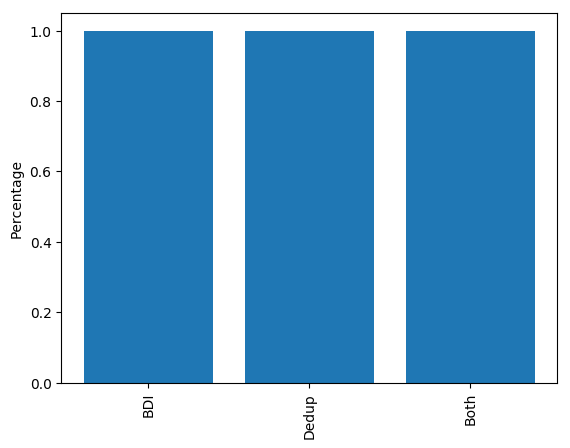
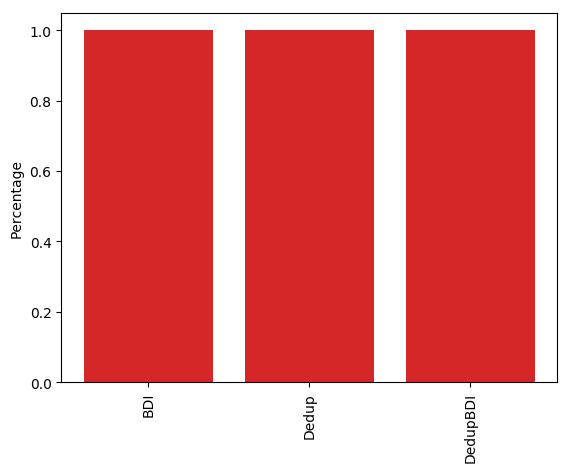
Added Results. Missing Power.

diff --git a/results.tex b/results.tex
@@ -3,3 +3,250 @@
 
 \chapter{Results}
 \label{ch:Results}
+
+In this chapter we show results for the BDI, Dedup, and DedupBDI caches along with the roofline model we established for DedeupBDI. We show how those four cache designs affect compression, MPKI, and speedup.
+
+\section{Methodology}
+\label{sec:Methodology}
+\begin{table}[]
+    \centering
+    \begin{tabular}{ll}
+    Component & Configuration                                                                                                 \\ \hline
+    CPU       & x86\_64, 2.6GHz, 4-wide OoO, 80 entry ROB.                                                                    \\
+    L1I       & 32KB, 4 way, 3 cycle access lat, 64B lines, LRU.                                                              \\
+    L1D       & 32KB, 8 way, 4 cycle access lat, 64B lines, LRU.                                                              \\
+    L2        & Private, 256KB, 8 way, 11 cycle access lat, 64B lines, LRU.                                                   \\
+    L3        & Shared, 0.5MB-8MB (or similar tag array size if compressed), 16 way, 39 cycle access lat, 64B lines, 8 banks. \\
+    Mem       & DDR3-1066, 1GB.                                                                                              
+    \end{tabular}
+    \caption{The simulated system}
+    \label{tab:simsys}
+\end{table}
+\begin{table}[]
+    \centering
+    \begin{tabular}{|l|l|l|l|}
+    \hline
+    Compression                   & Cache & Data Entries & Tag Entries \\ \hline
+    \multirow{5}{*}{Conventional} & 0.5MB & 8192         & 8192        \\ \cline{2-4} 
+                                  & 1MB   & 16384        & 16384       \\ \cline{2-4} 
+                                  & 2MB   & 32768        & 32768       \\ \cline{2-4} 
+                                  & 4MB   & 65536        & 65536       \\ \cline{2-4} 
+                                  & 8MB   & 131072       & 131072      \\ \hline
+    \multirow{5}{*}{COMP-2}       & 0.5MB & 4096         & 8192        \\ \cline{2-4} 
+                                  & 1MB   & 8192         & 16384       \\ \cline{2-4} 
+                                  & 2MB   & 16384        & 32768       \\ \cline{2-4} 
+                                  & 4MB   & 32768        & 65536       \\ \cline{2-4} 
+                                  & 8MB   & 65536        & 131072      \\ \hline
+    \multirow{5}{*}{COMP-4}       & 0.5MB & 2048         & 8192        \\ \cline{2-4} 
+                                  & 1MB   & 4096         & 16384       \\ \cline{2-4} 
+                                  & 2MB   & 8192         & 32768       \\ \cline{2-4} 
+                                  & 4MB   & 16384        & 65536       \\ \cline{2-4} 
+                                  & 8MB   & 32768        & 131072      \\ \hline
+    \end{tabular}
+    \caption{All cache configurations.}
+    \label{tab:simcache}
+\end{table}
+We used the zsim\cite{zsim} simulator to design and implement the four target caches: BDI, Dedup, DedupBDI, and Ideal DedupBDI along with a baseline conventional (uncompressed) cache. We used an out-of-order core timing model based on a medium-size x86 core, with detailed timing for all critical-path and off-critical-path events. We simulated a system with a 3 level cache hierarchy, with private L1 and L2 caches and a shared L3 cache. The simulated system is listed in Table \ref{tab:simsys}.\par 
+We simulated different conventional L3 cache sizes ranging from 0.5MB to 8MB. We also simulated the four compressed caches at the same tag array sizes, but with data arrays half and one quarter of the size. For example, a 4MB-2 BDI cache has the same number of tags as a conventional 4MB cache, but its tag to data ratio is 2 so its data array size is half of its conventional counterpart. The LLC cache configurations are shown in \ref{tab:simcache}. The workloads used are all the benchmarks from the AxBench\cite{axbench} benchmark suite, the Parsec\cite{parsec} benchmark suite with simmedium inputs, and the Spec\cite{spec} benchmark suite with train inputs (mid-size inputs). All the benchmarks were simulated until end or 3B instructions.
+
+\section{Case Study}
+\label{sec:case_study}
+In this section we describe the four benchmarks we picked in \ref{sec:Motivation}. The benchmarks have different cache patterns and behaviors. During static analysis canneal was only compressible by BDI, dedup was compressible using deduplication, jmeint was uncompressed while libquantum was compressible by both. We analyze how these benchmarks behave when simulated in a real computing system with compressed caches.\par
+\begin{figure}
+    \begin{subfigure}{0.5\textwidth}
+        \includegraphics[width=\textwidth]{canneal-compratio.png}
+        \caption{canneal}
+    \end{subfigure}
+    \begin{subfigure}{0.5\textwidth}
+        \includegraphics[width=\textwidth]{lbm-compratio.png}
+        \caption{lbm}
+    \end{subfigure}
+    \begin{subfigure}{0.5\textwidth}
+        \includegraphics[width=\textwidth]{jmeint-compratio.png}
+        \caption{jmeint}
+    \end{subfigure}
+    \begin{subfigure}{0.5\textwidth}
+        \includegraphics[width=\textwidth]{libquantum-compratio.png}
+        \caption{libquantum}
+    \end{subfigure}
+    \caption[Case Study: Compression]{Showing four benchmarks and their compression ratio using different compressed caches.}
+    \label{fig:case_compratio}
+\end{figure}
+Figure \ref{fig:case_compratio} shows the compression ratio of the four benchmarks. Compression ratio is calculated as the the ratio between valid tags and valid data entries. The blue columns are caches with tag entries double the data entries, while the orange ones have tags four times the data entries. As expected, canneal shows some compression with BDI but nothing with Dedup, lbm shows compression using Dedup but not using BDI, jmeint shows no compression using any of the caches, while libquantum shows compression using all of them. The DedupBDI cache combines the best of both worlds and either outperforms or at least does as good as BDI or Dedup.\par
+Figures \ref{fig:case_mpki} and \ref{fig:case_speedup} show the MPKI and Speedup for the four benchmarks under all cache configurations. Apart from the incompressible jmeint, all the benchmarks show huge speedups (up to 70\% in case of libquantum). DedupBDI is the best performing cache in canneal, lbm and libquantum. But it's slightly worse (0.01\% slowdown) than a conventional cache in jmeint.
+\begin{figure}
+    \begin{subfigure}{0.5\textwidth}
+        \includegraphics[width=\textwidth]{canneal-mpki.png}
+        \caption{canneal}
+    \end{subfigure}
+    \begin{subfigure}{0.5\textwidth}
+        \includegraphics[width=\textwidth]{lbm-mpki.png}
+        \caption{lbm}
+    \end{subfigure}
+    \begin{subfigure}{0.5\textwidth}
+        \includegraphics[width=\textwidth]{jmeint-mpki.png}
+        \caption{jmeint}
+    \end{subfigure}
+    \begin{subfigure}{0.5\textwidth}
+        \includegraphics[width=\textwidth]{libquantum-mpki.png}
+        \caption{libquantum}
+    \end{subfigure}
+    \caption[Case Study: MPKI]{Showing four benchmarks and their MPKI using different compressed caches.}
+    \label{fig:case_mpki}
+\end{figure}
+\begin{figure}
+    \begin{subfigure}{0.5\textwidth}
+        \includegraphics[width=\textwidth]{canneal-speedup.png}
+        \caption{canneal}
+    \end{subfigure}
+    \begin{subfigure}{0.5\textwidth}
+        \includegraphics[width=\textwidth]{lbm-speedup.png}
+        \caption{lbm}
+    \end{subfigure}
+    \begin{subfigure}{0.5\textwidth}
+        \includegraphics[width=\textwidth]{jmeint-speedup.png}
+        \caption{jmeint}
+    \end{subfigure}
+    \begin{subfigure}{0.5\textwidth}
+        \includegraphics[width=\textwidth]{libquantum-speedup.png}
+        \caption{libquantum}
+    \end{subfigure}
+    \caption[Case Study: Speedup]{Showing four benchmarks and their speedup using different compressed caches.}
+    \label{fig:case_speedup}
+\end{figure}
+
+\section{Compression}
+\label{sec:Compression}
+Figure \ref{fig:all_compratio} shows the compression ratio for all the benchmarks when simulated with a compressed 4MB LLC with tags four times the data lines. It's shown that DedupBDI performs either better than BDI and Dedup, or at least similar to the dominant one. There're no cases in which DedupBDI compressed worse than BDI or Dedup.\par
+It can also be seen that the difference between DedupBDI and the roofline model (IDedupBDI) is minimal in most cases. Only in bwaves and fft benchmarks the roofline perform a lot better than the real world implementation.\par
+However, the compression ratio does not tell the full story. If a cache contains 512 valid tags out of 1024, and 256 valid data lines out of 256 then it has a compression ratio of 0.5 but it's not being fully utilized. Normal conventional caches usually have near 100\% utilization unless the working data set is very small to entirely fit inside a cache. Figure \ref{fig:all_util} shows the tag and data array utilization for all benchmarks. Most of the benchmarks can be divided into two categories:
+\begin{itemize}
+    \item \textbf{tag limited:} Those are benchmarks that have very high tag utilization, but lower than 100\% data utilization. GemsFDTD is an obvious example. Those benchmarks are highly compressible and thus are bound by the size of the tag array. Evictions in such benchmarks are mainly caused by the tag array replacement policy.
+    \item \textbf{data limited:} Those benchmarks reach 100\% utilization of their data arrays before the tag array is full. This is because they have a lower degree of compressibility. Evictions in those benchmarks are prominently caused by the data array replacement policy.
+\end{itemize}
+\begin{figure}
+    \includegraphics[width=\textwidth]{all-compratio.png}
+    \caption[All benchmarks: Compression]{Showing compression ratio for all benchmarks using all types of compressed 4MB caches with tags four times data.}
+    \label{fig:all_compratio}
+\end{figure}
+\begin{figure}
+    \begin{subfigure}{\textwidth}
+        \includegraphics[width=\textwidth]{all-tagutil.png}
+    \end{subfigure}
+    \begin{subfigure}{\textwidth}
+        \includegraphics[width=\textwidth]{all-datautil.png}
+    \end{subfigure}
+    \caption[All benchmarks: Utilization]{Showing tag and data utilization ratio for all benchmarks using all types of compressed 4MB caches with tags four times data.}
+    \label{fig:all_util}
+\end{figure}
+Results generated from other cache sizes (ranging from 0.5MB to 8MB) are very similar, we have chosen the 4MB-4 as a representative.
+
+\section{Performance}
+\label{sec:Performance}
+\begin{table}[]
+    \centering
+    \small
+    \setlength\tabcolsep{2pt}
+    \begin{tabular}{|l|l|l|l|l|l|l|l|}
+        \hline
+        \textbf{Benchmark} & \textbf{Cache Sensitive}                                    & \textbf{Benchmark} & \textbf{Cache Sensitive}                                      & \textbf{Benchmark} & \textbf{Cache Sensitive}                                     & \textbf{Benchmark} & \textbf{Cache Sensitive}                                      \\ \hline
+        fft                & \begin{tabular}[c]{@{}l@{}}Big Sizes \\ (Semi)\end{tabular} & fluidanimate       & None                                                          & gromacs            & \begin{tabular}[c]{@{}l@{}}Small Sizes \\ (Semi)\end{tabular} & wrf                & All                                                           \\ \hline
+        inversek2j         & None                                                        & freqmine           & None                                                          & cactusADM          & \begin{tabular}[c]{@{}l@{}}All \\ (Semi)\end{tabular}         & bzip2              & All                                                           \\ \hline
+        jmeint             & None                                                        & raytrace           & None                                                          & leslie3d           & \begin{tabular}[c]{@{}l@{}}Big Sizes \\ (Semi)\end{tabular}   & gcc                & All                                                           \\ \hline
+        jpeg               & None                                                        & streamcluster      & None                                                          & namd               & None                                                          & mcf                &                                                               \\ \hline
+        kmeans             & None                                                        & swaptions          & None                                                          & dealII             & Small Sizes                                                   & gobmk              & \begin{tabular}[c]{@{}l@{}}Small Sizes \\ (Semi)\end{tabular} \\ \hline
+        sobel              & None                                                        & vips               & \begin{tabular}[c]{@{}l@{}}Small Sizes \\ (Semi)\end{tabular} & soplex             & \begin{tabular}[c]{@{}l@{}}All \\ (Semi)\end{tabular}         & hmmer              & \begin{tabular}[c]{@{}l@{}}Small Sizes \\ (Semi)\end{tabular} \\ \hline
+        blackscholes       & None                                                        & x264               & None                                                          & calculix           & Small Sizes                                                   & sjeng              & None                                                          \\ \hline
+        bodytrack          & None                                                        & bwaves             & None                                                          & GemsFDTD           &                                                               & libquantum         & Mid Sizes                                                     \\ \hline
+        canneal            & \begin{tabular}[c]{@{}l@{}}All \\ (Semi)\end{tabular}       & gamess             & \begin{tabular}[c]{@{}l@{}}Small Sizes \\ (Semi)\end{tabular} & tonto              & \begin{tabular}[c]{@{}l@{}}Small Sizes \\ (Semi)\end{tabular} & h264ref            &                                                               \\ \hline
+        dedup              & None                                                        & milc               &                                                               & lbm                & None                                                          & omnetpp            & Small Sizes                                                   \\ \hline
+        facesim            & None                                                        & zeusmp             & None                                                          & sphinx3            & Big Sizes                                                     & astar              & All                                                           \\ \hline
+        ferret             & \begin{tabular}[c]{@{}l@{}}All\\ (Semi)\end{tabular}        &                    &                                                               &                    &                                                               &                    &                                                               \\ \hline
+        \end{tabular}
+    \caption{All benchmarks and their cache behavior}
+    \label{tab:cachesense}
+\end{table}
+\begin{figure}
+    \begin{subfigure}{\textwidth}
+        \includegraphics[width=\textwidth]{all05-mpki.png}
+    \end{subfigure}
+    \begin{subfigure}{\textwidth}
+        \includegraphics[width=\textwidth]{all4-mpki.png}
+    \end{subfigure}
+    \caption[All benchmarks: MPKI]{Showing LLC MPKI for conventional and all types of compressed 0.5 and 4MB caches with tags four times data.}
+    \label{fig:all_mpki}
+\end{figure}
+\begin{figure}
+    \begin{subfigure}{\textwidth}
+        \includegraphics[width=\textwidth]{all05-speedup.png}
+    \end{subfigure}
+    \begin{subfigure}{\textwidth}
+        \includegraphics[width=\textwidth]{all4-speedup.png}
+    \end{subfigure}
+    \caption[All benchmarks: Speedup]{Showing Speedup for all types of compressed 0.5 and 4MB caches with tags four times data against conventional same size caches.}
+    \label{fig:all_speedup}
+\end{figure}
+Figure \ref{fig:all_mpki} shows the MPKI for all the benchmarks when simulated with conventional and compressed 0.5MB and 4MB LLC caches with tags four times the data lines. It shows that compressed caches reduce MPKIs in LLC. DedupBDI is either the same as Dedup or BDI or is outperforming them.\par
+However, the decrease of MPKI doesn't always necessitate speedup. The benchmark access patterns and cache sensitivity also play a role. Table \ref{tab:cachesense} shows the behavior of all benchmarks over a range fo cache sizes. Every benchmark is classified as cache sensitive, cache insensitive, or cache sensitive at a specific cache size range.
+Figure \ref{fig:all_speedup} shows the speedup for all the benchmarks when simulated with a compressed 0.5MB and 4MB LLC caches with tags four times the data lines, respectively. We have chosen those two sizes because some benchmarks are only cache sensitive with lower cache sizes while others are only cache sensitive at higher cache sizes.\par
+For the cache insensitive benchmarks, the DedupBDI cache performs as fast as the conventional caches. It does not provide anymore speedup. But it allows the data to be compressed, providing area and power savings. For the cache sensitive benchmarks, DedupBDI outperforms the conventional, Dedup, and DedupBDI caches altogether.
+
+\section{Overhead Analysis}
+\label{sec:Overhead}
+\begin{table}[]
+    \centering
+    \begin{tabular}{lllll}
+               & Conv   & BDI    & Dedup  & DedupBDI \\ \hline
+    Tags       &        &        &        &          \\
+    \# Entries & 65536  & 65536  & 65536  & 65536    \\
+    Entry Size & 46b    & 46b    & 46b    & 46b      \\
+    Overhead   & 8b     & 15b    & 46b    & 49b      \\
+    Total Size & 432KB  & 488KB  & 736KB  & 760KB    \\ \hline
+    Data       &        &        &        &          \\
+    \# Entries & 65536  & 16384  & 16384  & 16384    \\
+    Entry Size & 64B    & 64B    & 64B    & 64B      \\
+    Overhead   &        &        & 16b    & 16B      \\
+    FreeList   &        &        & 28KB   & 10KB     \\
+    Total Size & 4MB    & 1MB    & 1.06MB & 1.26MB   \\ \hline
+    Hash       &        &        &        &          \\
+    \# Entries &        &        & 64     & 64       \\
+    Entry Size &        &        & 10b    & 10b      \\
+    Overhead   &        &        & 14b    & 21b      \\
+    Total Size &        &        & 192B   & 248B     \\ \hline
+    Total Size & 4.42MB & 1.48MB & 1.78MB & 2MB  
+    \end{tabular}
+    \caption{4MB cache size and overhead in all configurations.}
+    \label{tab:overhead}
+\end{table}
+Table \ref{tab:overhead} shows the overheads in the cache designs we have, assuming an associativity of 16, cache size of 4MB and LRU replacement policy. The overhead in all caches comes from three (four) different sources:
+\begin{itemize}
+    \item \textbf{Tag Overhead:}
+    \begin{itemize}
+        \item \textbf{conventional:} In conventional caches, assuming LRU replacement policy, the tag overhead per entry consists of one bit for Valid, one for Dirty, and log2(associativity) bits for the LRU replacement. 
+        \item \textbf{BDI:} In BDI there's an extra overhead of 4 bits for compression encoding and log2(associativity*\#Segments) bits for segment pointers. Along with the normal overhead from a conventional cache.
+        \item \textbf{Dedup:} On top of the conventional cache overhead, Dedup adds two pointers per tag entry for the next/previous tag to build a linked list, each one of those is log2(\#Tags/associativity) bits. It also adds pointers to the data line associated with it. Since Dedup data arrays are direct mapped the data pointer size is log2(\#Data).
+        \item \textbf{DedupBDI:} DedupBDI adds the same overhead as the BDI cache. It also adds the same linked list pointers from the Dedup cache, but it's data pointer size is different from the Dedup cache. Because the data array in DedupBDI maintains its associativity, the data pointer size is log2(\#Data/associativity).
+    \end{itemize}
+    \item \textbf{Data Overhead:}
+    \begin{itemize}
+        \item \textbf{conventional:} A conventional cache has no overheads in its data array.
+        \item \textbf{BDI:} Similar to a conventional cache, A BDI cache does not have any metadata in its data array and thus does not have any overhead.
+        \item \textbf{Dedup:} The data lines in a Dedup cache requires a pointer to the tag, which is enough to pint to the tag set so it has a size of log2(\#Tags/associativity). It also requires each data line to have a deduplication counter, which we described in \ref{ch:BackgroundMotiv} to be 2 bits.
+        \item \textbf{DedupBDI:} The DedupBDI data array has the same overhead as its Dedup counterpart. Except the overhead is per segment instead of being per line. that means for each data line we have 8 Dedup data overheads.
+    \end{itemize}
+    \item \textbf{Extra Data Overhead:}
+    \begin{itemize}
+        \item \textbf{Dedup:} The Dedup cache maintains a free list of its free data lines. The free list is essentially a FIFO with the same number of entries as data lines, and with a width that's enough to hold a pointer to the corresponding data line (i.e. log2(\#Data)).
+        \item \textbf{DedupBDI:} The DedupBDI cache maintains 8 different free lists. Each of them is a FIFO with the same number of sets as data sets (i.e. Data lines/associativity), with a width that's enough to hold a pointer to the set (i.e. log2(\#Data/associativity)).
+    \end{itemize}
+    \item \textbf{Hash Array:} The Dedup and DedupBDI have the same hash array design. The hash array saves part of the hash as a tag while the other part is used as an index. The hash array then has the size of \#Hash*(HashSize-log2(\#Hash/associativity)). The Dedup and DedupBDI hash arrays then have some extra overhead:
+    \begin{itemize}
+        \item \textbf{Dedup:} each hash entry has a data pointer of size log2(\#Data)
+        \item \textbf{DedupBDI:} each hash entry has a data pointer of size log2(\#Data/associativity) and segment pointer of size log2(associativity*\#Segments) bits.
+    \end{itemize}
+\end{itemize}
+It's obvious that DedupBDI has the highest amount of overhead. But it also gains the most savings and speedups.
+
+\section{Area and Power}
+\label{sec:areapower}
+We used cacti6\cite{cacti} to get power and area estimations for all the cache types and sizes we simulated. The results are shown in \ref{}

diff --git a/intro.tex b/intro.tex
@@ -4,8 +4,28 @@
 \chapter{Introduction}
 \label{ch:Introduction}
 
-Modern computer systems suffer from a huge speed gap between microprocessors and DRAM main memories. The traditional approach to tolerate the huge DRAM latency is to use huge multi-megabyte caches. However, caches often present us with a design tradeoff. While increasing cache size can lead to lower miss rates and thus better performance, it also requires higher silicon area, higher access latencies and consumes more power\cite{skadron1999branch}. In modern microprocessors caches often occupy a significant portion of the die area, and contribute to significant power consumption\cite{skylake,power9}.\par
-A different approach that has gained more popularity recently is to use compression ro better utilize the existing cache space instead of increasing cache sizes. Previous proposals discussed and exploited data similarities and redundancies on different granularities. Some studies have found that applications can exhibit a lot of zero cache lines, some proposals were completely focused on zero compression\cite{zca} while others at least treated zero lines as a special case in their compression schemes\cite{fpc, hycomp, dedup}. Other proposals took advantage of the existence of data similarities of different granularities across caches. Such approaches used dictionaries for intra-line granularity\cite{cpack, dish} or used deduplications\cite{dedup} to take advantage of inter-line granularity similarities. Some studies opted to do data compression to decrease the data size on a line or smaller granularity rather than exploit existing cache wide data patterns\cite{bdi, sc2, hycomp}.\par
-The previously mentioned compression approaches do improve the utilization of cache space, they allow caches to store more than their physical sizes, essentially acting like bigger size caches. However, each of those approaches focused on only one of two granularities to do compression. This first granularity was intra-line, only concerned about compressing data inside one data line to make the data line smaller and thus fit more than one data line in one physical cache line. The second granularity was inter-line, focusing only on reducing the total number of cache lines by getting rid of zero lines or deduplicating similar lines.\par
+Modern computer systems suffer from a huge speed gap between microprocessors and DRAM main memories. The traditional approach to tolerate the huge DRAM latency is to use huge multi-megabyte caches. However, caches often present us with a design tradeoff. While increasing cache size can lead to lower miss rates and thus better performance, it also requires higher silicon area, higher access latencies and consumes more power\cite{skadron1999branch}. In modern microprocessors caches often occupy a significant portion of the die area, and contribute to significant power consumption\cite{skylake,power9}. Figure \ref{fig:CacheSize} shows how area, dynamic energy, leakage power, and access latency scales with cache size. The results in Figure \ref{fig:CacheSize} were generated using CACTI\cite{cacti}.\par
+\begin{figure}
+    \begin{subfigure}[b]{0.5\textwidth}
+        \includegraphics[width=\textwidth]{CacheArea.png}
+        \caption{Cache Area vs. Cache Size}
+    \end{subfigure}
+    \begin{subfigure}[b]{0.5\textwidth}
+        \includegraphics[width=\textwidth]{CacheEnergy.png}
+        \caption{Dynamic Area vs. Cache Size}
+    \end{subfigure}
+    \begin{subfigure}[b]{0.5\textwidth}
+        \includegraphics[width=\textwidth]{CachePower.png}
+        \caption{Leakage Power vs. Cache Size}
+    \end{subfigure}
+    \begin{subfigure}[b]{0.5\textwidth}
+        \includegraphics[width=\textwidth]{CacheLatency.png}
+        \caption{Access Latency vs. Cache Size}
+    \end{subfigure}
+    \caption{Showing how different cache traits are affected by cache size.}
+    \label{fig:CacheSize}
+\end{figure}
+A different approach that has gained more popularity recently is to use compression to better utilize the existing cache space instead of increasing cache sizes. Cache compression allows caches to store more than their physical sizes, essentially acting like bigger size caches. However, they also impose more constraints on the compression and decompression design, requiring it to be very fast to not affect the cache performance. Previous proposals discussed and exploited data similarities and redundancies on different granularities. Some studies have found that applications can exhibit a lot of zero cache lines, some proposals were completely focused on zero compression\cite{zca} while others treated zero lines as a special case in their compression schemes\cite{fpc, hycomp, dedup}. Other proposals took advantage of the existence of data similarities of different granularities across caches. Such approaches used dictionaries for intra-line granularity\cite{cpack, dish} or used deduplications\cite{dedup} to take advantage of inter-line granularity similarities. Some studies opted to do data compression to decrease the data size on a line or smaller granularity rather than exploit existing cache wide data patterns\cite{bdi, sc2, hycomp}.\par
+The previously mentioned compression approaches do improve the utilization of cache space. However, each of those approaches focused on only one of two granularities to do compression. This first granularity was intra-line, only concerned about compressing data inside one data line to make the data line smaller and thus fit more than one data line in one physical cache line. The second granularity was inter-line, focusing only on reducing the total number of cache lines by getting rid of zero lines or deduplicating similar lines.\par
 Some of today's applications can benefit from only one of those while others can benefit from both of them. For example, the dedup\cite{parsec} benchmark is only inter-line compressible through deduplication\cite{dedup}, the inversek2j\cite{axbench} benchmark is only intra-line compressible, while the bwaves\cite{spec} benchmark is compressible using both. It's obvious that only using one of the compressions on only one of the granularities is always missing some opportunity. Combining inter and intra-line compressions is the only way to gain the maximum possible compression and the highest benefits. But doing so also means that the cache organization is more complex, requires redesigning replacement policies, and more overhead. To our knowledge, no previous proposals have considered a compressed cache doing inter and intra-line compression at the same time.\par
 In this work we pick two cache compression algorithms to cover inter and intra-line. We discuss their cache structures, compression, replacement policies, and their effect on different applications in Chapter \ref{ch:BackgroundMotiv}. Then we describe how to combine both compression schemes in a cache in Chapter \ref{ch:Design}. In the same chapter we also describe the effects and constraints it imposes on cache organization and replacement policies, and establish a roofline model for evaluation. In Chapter \ref{ch:Results} we show the results of our implementation against the two selected algorithms, we also show how the performance of our cache varies with multiple design choices and parameters. Chapter \ref{ch:Related Work} describes related cache compression techniques other than the two we picked.

diff --git a/backgroundmotiv.tex b/backgroundmotiv.tex
@@ -223,41 +223,38 @@ A flowchart of write access to a Dedup cache is shown in Figure \ref{fig:Dedup_W
 Once the tag access is finished, we can find out whether the line was distinct or not. If the line is distinct and had no other tags associated with it, then it can be written to right away as shown in part b. If the line is deduplicated, then a write to the line can change it and cause that tag to lose similarity. The insertion of the written data line then can be handled similarly to a miss. It has to access the hash array and look for similar lines, this has one of the four outcomes described above as shown in parts c and d.
 
 \section{Motivation}
-\label{ch:Motivation}
+\label{sec:Motivation}
 Deduplication and base delta immediate compression work on two different domains, one is inter-line and works on a cache line granularity while the other works intra-line with a granularity of two, four, or eight bytes. This means that they can both be combined to deduplicate similar lines and compress each of those lines at the same time.
 We look at four different benchmarks with different cache patterns and behaviours. One benchmark is very compressible by BDI, the second is compressible using deduplication, the third and fourth are completely incompressible and compressible by both, respectively. We analyze how these benchmarks respond to each type of compression and how a combination of both compression techniques can improve on them.\par
 The four benchmarks are:
 \begin{figure}
     \begin{subfigure}{\textwidth}
-        \includegraphics[width=\textwidth]{inversek2j.png}
-        \caption{inversek2j}
-        \label{fig:inversek2j}
+        \includegraphics[width=\textwidth]{canneal.png}
+        \caption{canneal}
+        \label{fig:canneal}
     \end{subfigure}
     \begin{subfigure}{\textwidth}
-        \includegraphics[width=\textwidth]{dedup.png}
-        \caption{dedup}
-        \label{fig:dedup}
+        \includegraphics[width=\textwidth]{lbm.png}
+        \caption{lbm}
+        \label{fig:lbm}
     \end{subfigure}
-    \caption[Compression in benchmarks1]{The figure shows the percentage of compressed data compared to original cache sizes.}
-\end{figure}
-\begin{figure}
     \begin{subfigure}{\textwidth}
         \includegraphics[width=\textwidth]{jmeint.png}
         \caption{jmeint}
         \label{fig:jmeint}
     \end{subfigure}
     \begin{subfigure}{\textwidth}
-        \includegraphics[width=\textwidth]{bwaves.png}
-        \caption{bwaves}
-        \label{fig:bwaves}
+        \includegraphics[width=\textwidth]{libquantum.png}
+        \caption{libquantum}
+        \label{fig:libquantum}
     \end{subfigure}
-    \caption[Compression in benchmarks2]{The figure shows the percentage of compressed data compared to original cache sizes.}
+    \caption[Compression in benchmarks]{The figure shows the percentage of compressed data compared to original cache sizes.}
 \end{figure}
 \begin{itemize}
-    \item \textbf{inversek2j:} The inversek2j benchmark\cite{axbench} is used in robotic and animation applications. It uses the kinematic equation to compute the angles of 2-joint robotic arms. It deals with arrays of floats that represent angles. Inversek2j is BDI sensitive but doesn't have enough potential to benifit from deudplication. Figure \ref{fig:inversek2j} shows the Dedup, BDI, and Dedup+BDI compressed data size of inversek2j cache dumps as a percentage of the original size.
-    \item \textbf{dedup:} The dedup benchmark\cite{parsec} compresses data streams with deduplication. It treats data as integer arrays, divides them into chunks, then tries to build a dictionary out of those chunks and use them for compression. The dedup benchmark is deduplication sensitive. Figure \ref{fig:dedup} shows the Dedup, BDI, and Dedup+BDI compressed data size of dedup cache dumps as a percentage of the original size.
+    \item \textbf{canneal:} The canneal benchmark\cite{parsec} is a cache-aware implementation of a simulated annealing algorithm used for routing in chip designs. canneal is BDI sensitive but doesn't have enough potential to benifit from deudplication. Figure \ref{fig:inversek2j} shows the Dedup, BDI, and Dedup+BDI compressed data size of canneal cache dumps as a percentage of the original size.
+    \item \textbf{lbm:} The lbm benchmark\cite{spec} implements the "Lattice Boltzman Method" to simulate incompressible fluids in 3D. The output from lbm benchmark is values representing 3d velocity vectors for each cell in the simulation. Because of this, lbm is deduplication sensitive. Figure \ref{fig:lbm} shows the Dedup, BDI, and Dedup+BDI compressed data size of lbm cache dumps as a percentage of the original size.
     \item \textbf{jmeint:} The jmeint benchmark\cite{axbench} is a triangle intersection workload that is used in 3d gaming. It takes coordinates of two triangles as its input. This makes most of the data insensitive to BDI compression and deduplication. Figure \ref{fig:jmeint} shows the Dedup, BDI, and Dedup+BDI compressed data size of jmeint cache dumps as a percentage of the original size.
-    \item \textbf{bwaves:} The bwaves benchmark\cite{spec} simulates a spherical blast wave. It also contains (at least at the first few cache dumps) a lot of zero lines which are 2D compressible through deduplication and BDI. Figure \ref{fig:bwaves} shows the Dedup, BDI, and Dedup+BDI compressed data size of bwaves cache dumps as a percentage of the original size.
+    \item \textbf{libquantum:} The libquantum library\cite{spec} is used to simulate quantum computers. Specifically it simulates the Shor factorization algorithm widely used for cryptanalysis. It contains (at least at the first few cache dumps) a lot of zero lines which are 2D compressible through deduplication and BDI. Figure \ref{fig:libquantum} shows the Dedup, BDI, and Dedup+BDI compressed data size of libquantum cache dumps as a percentage of the original size.
 \end{itemize}
 \begin{figure}
     \begin{subfigure}[t]{\textwidth}

diff --git a/design.tex b/design.tex
@@ -109,7 +109,7 @@ To be able to evaluate the straightforward design we discussed in the previous s
     \item \textbf{Finding a similar line:} Finding a similar line in the DedupBDI cache has two sources of possible error: The first is the hashing itself. Because hashing data lines to a smaller space means it will never be perfect and collisions are inevitable. The second limitation is the size of hash array. Because the number of entries in the hash array is less than that of the data array, there's a chance that an opportunity for deduplication is missed because the hash array was too small and couldn't keep its hash. Finding a similar line can be idealized by directly searching through the data array and comparing each line until a similar data line is found.
     %TODO: Show figure of data utilization here.
     %TODO: Show L2 Back Invs and use NMRU as ideal instead of LRU?
-    \item \textbf{Replacement of data lines:} Imperfections in the replacement policy of data array comes from two sources: the first is the free list, since we cannot make the free list keep track of all free segments in the data array because it would be impractically large, it can only keep track of free sets, that means even if only one segment is used from a set that set is not kept in the free list anymore. The second source is the random selection of data lines whenever the free list is empty, our experiments show that the random selection causes utilization of the data array to be less than a 100\% as shown in \ref{ch:Results}, selecting 4 random sets might now always yield a set with enough free segments, selecting more than 4 can be time inefficient. We idealize the replacement policy by directly searching the whole data cache for free segments that are enough to insert a new compressed line, this ensures a 100\% utilization of the data array, if no free segments are available we use data array wide LRU to pick a victim segment(s) instead of doing it randomly.
+    \item \textbf{Replacement of data lines:} Imperfections in the replacement policy of data array comes from two sources: the first is the free list, since we cannot make the free list keep track of all free segments in the data array because it would be impractically large, it can only keep track of free sets, that means even if only one segment is used from a set that set is not kept in the free list anymore. The second source is the random selection of data lines whenever the free list is empty, our experiments showed that the random selection causes utilization of the data array to always be less than a 100\% as shown in \ref{ch:Results}, selecting 4 random sets might not always yield a set with enough free segments, selecting more than 4 can be time inefficient. We idealize the replacement policy by directly searching the whole data cache for free segments that are enough to insert a new compressed line, this ensures a 100\% utilization of the data array, if no free segments are available we use data array wide LRU to pick a victim segment(s) instead of doing it randomly.
 \end{itemize}
 with the use of perfect deduplication and data insertion, a hash array is no longer needed, and the tag array is no different than a normal cache. The \ref{ch:Results} chapter shows the performance of both the straightforward implementation and the idealized one.
 
@@ -126,7 +126,7 @@ In order to improve on the naive implementation and towards the upper bound, we 
 \begin{itemize}
     %TODO: Quantify this
     \item \textbf{Deduplication:} while any realistic deduplication will still depend on the existence of a hash array. The hash array used in the straightforward was the same as \hyperref[sssec:DedupHash]{Dedup}, the hash array was enough to cover deduplications in the data array of \ref{sec:Dedup}, but because of the use of compression in DedupBDI, each line can hold up to eight times the amount of data, the same hash array with the same number of entries might not be enough to cover that amount of deduplication efficiently. In the \ref{ch:Results} we show how varying the number of hash array entries can affect the performance of deduplication in DedupBDI cache.
-    \item \textbf{Data free list:} To keep track of all free segments in the data array, a modification to the free list was made, the free list is now divided into multiple free lists, each of which can keep track of data sets with a certain amount of free segments, namely we have eight free lists, the first keeps track of data sets with one free segment and the second with two, until the last which keeps track of data sets with eight or more free segments, whenever a data line needs to be inserted, the free list corresponding to its size is looked up first, if it's empty then the larger ones are searched one by one, if no empty segments exist then we return to the second part of the replacement policy.
+    \item \textbf{Data free list:} To keep track of all free segments in the data array, a modification to the free list was made, the free list is now divided into multiple free lists, each of which can keep track of data sets with a certain amount of free segments. Namely we have eight free lists: the first keeps track of data sets with one free segment and the second with two, until the last which keeps track of data sets with eight or more free segments. Whenever a data line needs to be inserted, the free list corresponding to its size is looked up first. If it's empty then the larger ones are searched one by one. If no empty segments exist then we return to the second part of the replacement policy.
     %TODO: Results of L2 back invs.
     %TODO: Need to quantify LRU vs Rand vs NMRU
     %TODO: Quantify how it hurts

diff --git a/diss.tex b/diss.tex
@@ -183,6 +183,7 @@
 %\usepackage{longtable}	% provide tables spanning multiple pages
 %\usepackage{chngpage}	% support changing the page widths on demand
 %\usepackage{tabularx}	% an enhanced tabular environment
+\usepackage{multirow}
 
 %% enumitem: support pausing and resuming enumerate environments.
 %\usepackage{enumitem}
@@ -303,7 +304,7 @@
 %% Document meta-data: be sure to also change the \hypersetup information
 %%
 
-\title{On Combinig Inter and Intra-Line Cache Compression}
+\title{Combinig Inter and Intra-Line Cache Compression}
 %\subtitle{If you want a subtitle}
 
 \author{Mohammad Ewais}

diff --git a/relatedwork.tex b/relatedwork.tex
@@ -1,2 +1,10 @@
 \chapter{Related Work}
 \label{ch:Related Work}
+
+\section{Frequent Pattern Compression}
+\label{sec:fpc}
+
+\section{Zero Content Augmented Cache}
+\label{sec:zca}
+
+\section{}
